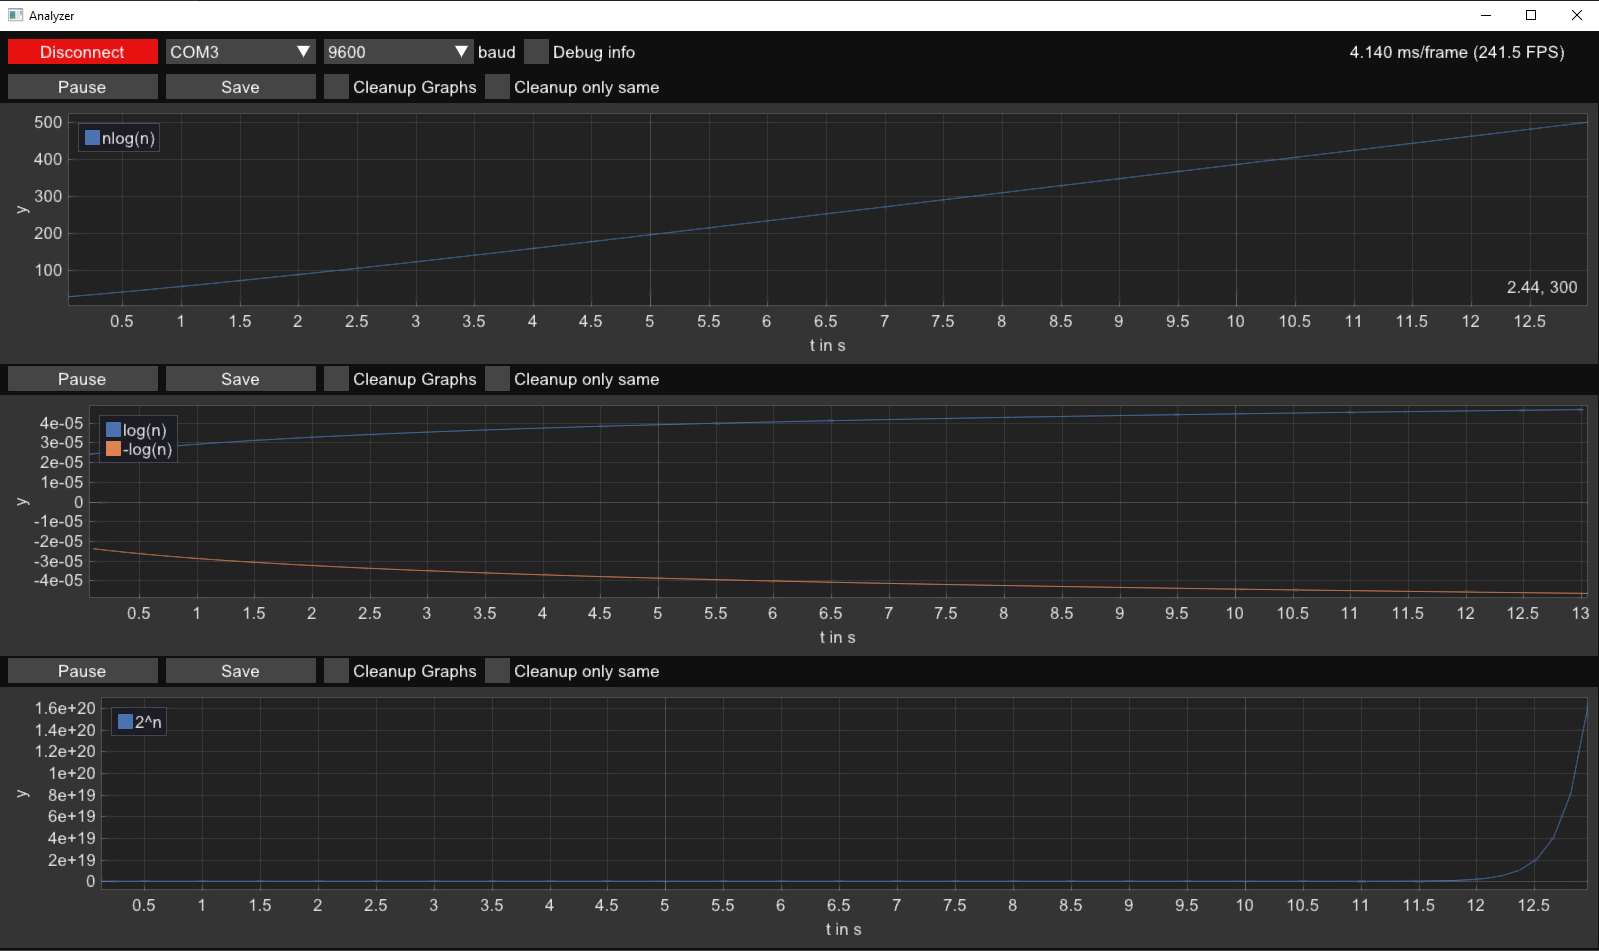
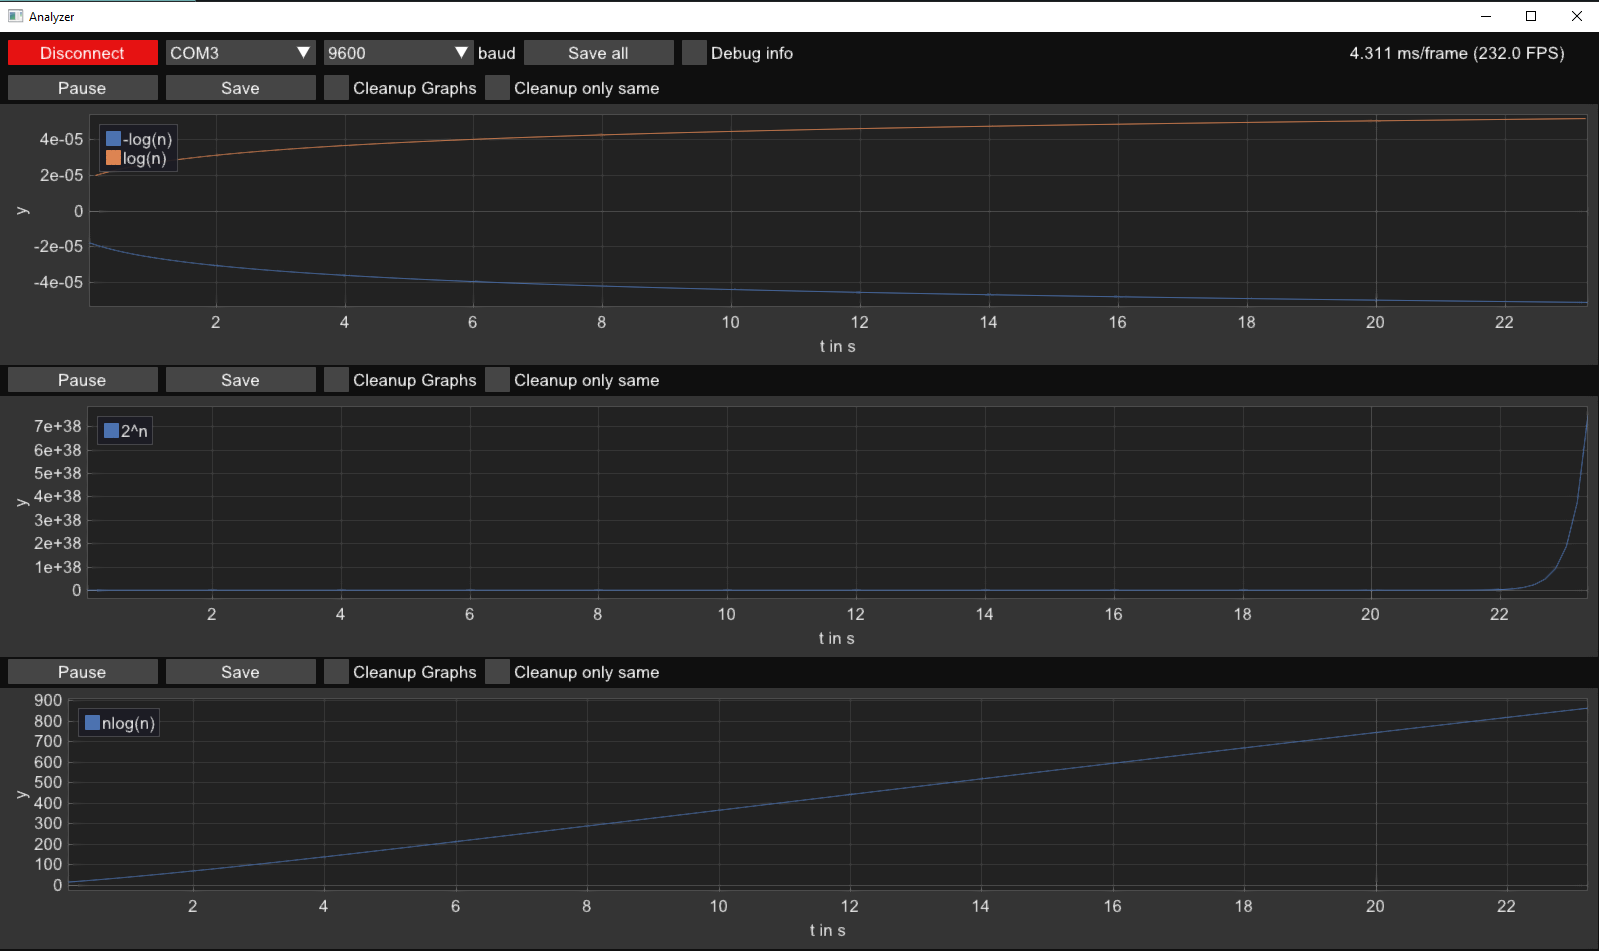
Updated readme with new images

diff --git a/README.md b/README.md
@@ -1,26 +1,27 @@
 # Analyzer
 
-A tool to easily visualize data from your esp. (it was tested with an esp32 and an arduino uno but other devices should work aswell)
+A tool to easily visualize data from your esp. (it was tested with an esp32 and an arduino uno but other devices should work aswell)  
 ![image info](./docs/image1.PNG)
 
-You can also save an image of every single plot
+You can also save every plot solely or all plots together in an image. You also have the choice to upscale the image on saving
 ![image info](./docs/image2.PNG)
 
 # How to use
 
-You have to provide a formatted string via the `print()` function from your esp.  
+You have to provide a formatted string via the `print()` function from your device.  
 The string should be in the format of `"plot_name:y_label:graph_name:value\n"`. However all of these values except for `value` can be defaulted thus there's no need to provide them if you don't want to.
 
-Plot name - will be centered above your plot. You can use `##` in front of the name to not show as a title e.g. `##log` - defaults to `##default`  
+Plot name - will be centered above your plot. You can use `##` in front of the name to not show it as a title e.g. `##log` - defaults to `##default`  
 Y label - what's shown on the y axis - defaults to `y`  
 Graph name - the name of the graph, used to properly assign the values and is shown in the legend - defaults to `f(x)`  
 Value - the y axis value, the x axis will always show the elapsed time in seconds - can't be defaulted  
 `\n` - The newline is important because it marks the end of an entry thus every entry has to have one
 
-The program sorts the values according to their plot and graph hence make sure to name them properly. You can take a look at the examples provided in the examples/ directory if you want to see it in action.
+The program sorts the values according to their plot and graph hence make sure to name them properly. If you want more interaction you can customize the plots and the legends by right clicking them. Also take a look at the examples provided in the examples/ directory if you want to see how it's supposed to be used.
 
 ## Example
 
+Here is some example code on how to use it
 ```c++
 void setup() 
 {
@@ -53,7 +54,7 @@ vendor\premake5 --help
 git clone https://github.com/pyvyx/Analyzer.git
 ```
 ```
-cd MouseTracker
+cd Analyzer
 ```
 
 ## Visual Studio
